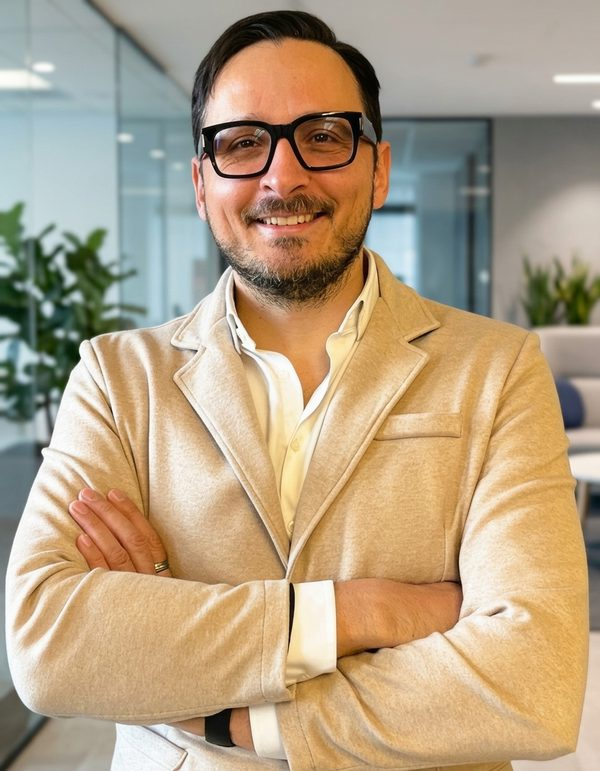
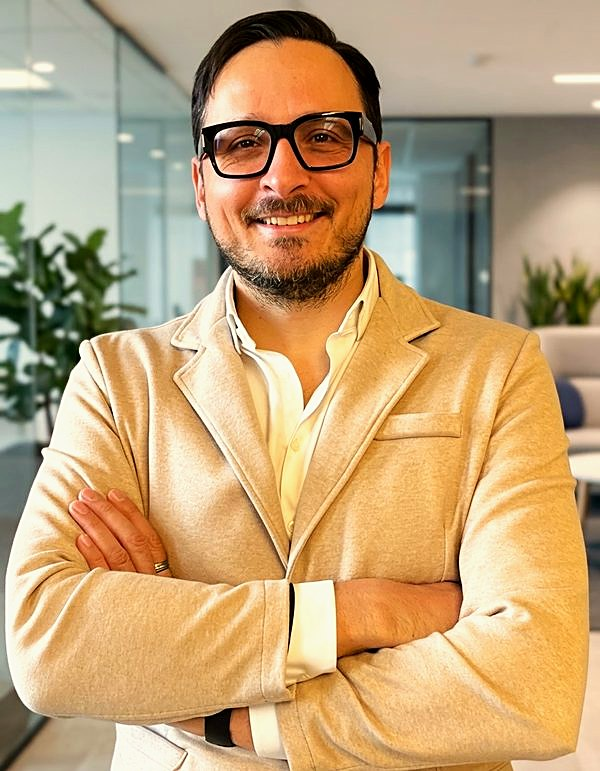
Color grade della foto di Andrea
Grading fotografico (niente ritocchi al viso): bilanciamento caldo, tone curve
a S con luci compresse, vignetta morbida tendente al terra, micro-sharpen.
Originale conservato in andrea-original.jpg (fuori da public/, non servito).
Rimosso il filtro CSS che compensava i toni freddi.

diff --git a/public/index.html b/public/index.html
@@ -160,7 +160,7 @@
   .who p{font-size:17px;color:var(--muted);line-height:1.8;margin-bottom:18px;max-width:48ch;}
   .who-sign{font-family:var(--serif);font-style:italic;font-size:22px;color:var(--cream);margin-top:6px;}
   .who-photo{position:relative;border-radius:16px;overflow:hidden;border:1px solid var(--line);aspect-ratio:3/4;box-shadow:0 40px 90px -50px #000;}
-  .who-photo img{width:100%;height:100%;object-fit:cover;display:block;filter:grayscale(.12) contrast(1.03);}
+  .who-photo img{width:100%;height:100%;object-fit:cover;display:block;}
   .who-photo::after{content:'';position:absolute;inset:0;background:linear-gradient(to top,rgba(15,13,10,.55),transparent 50%);pointer-events:none;}
   /* FORM REALE */
   .ef2{max-width:480px;margin:0 auto;}